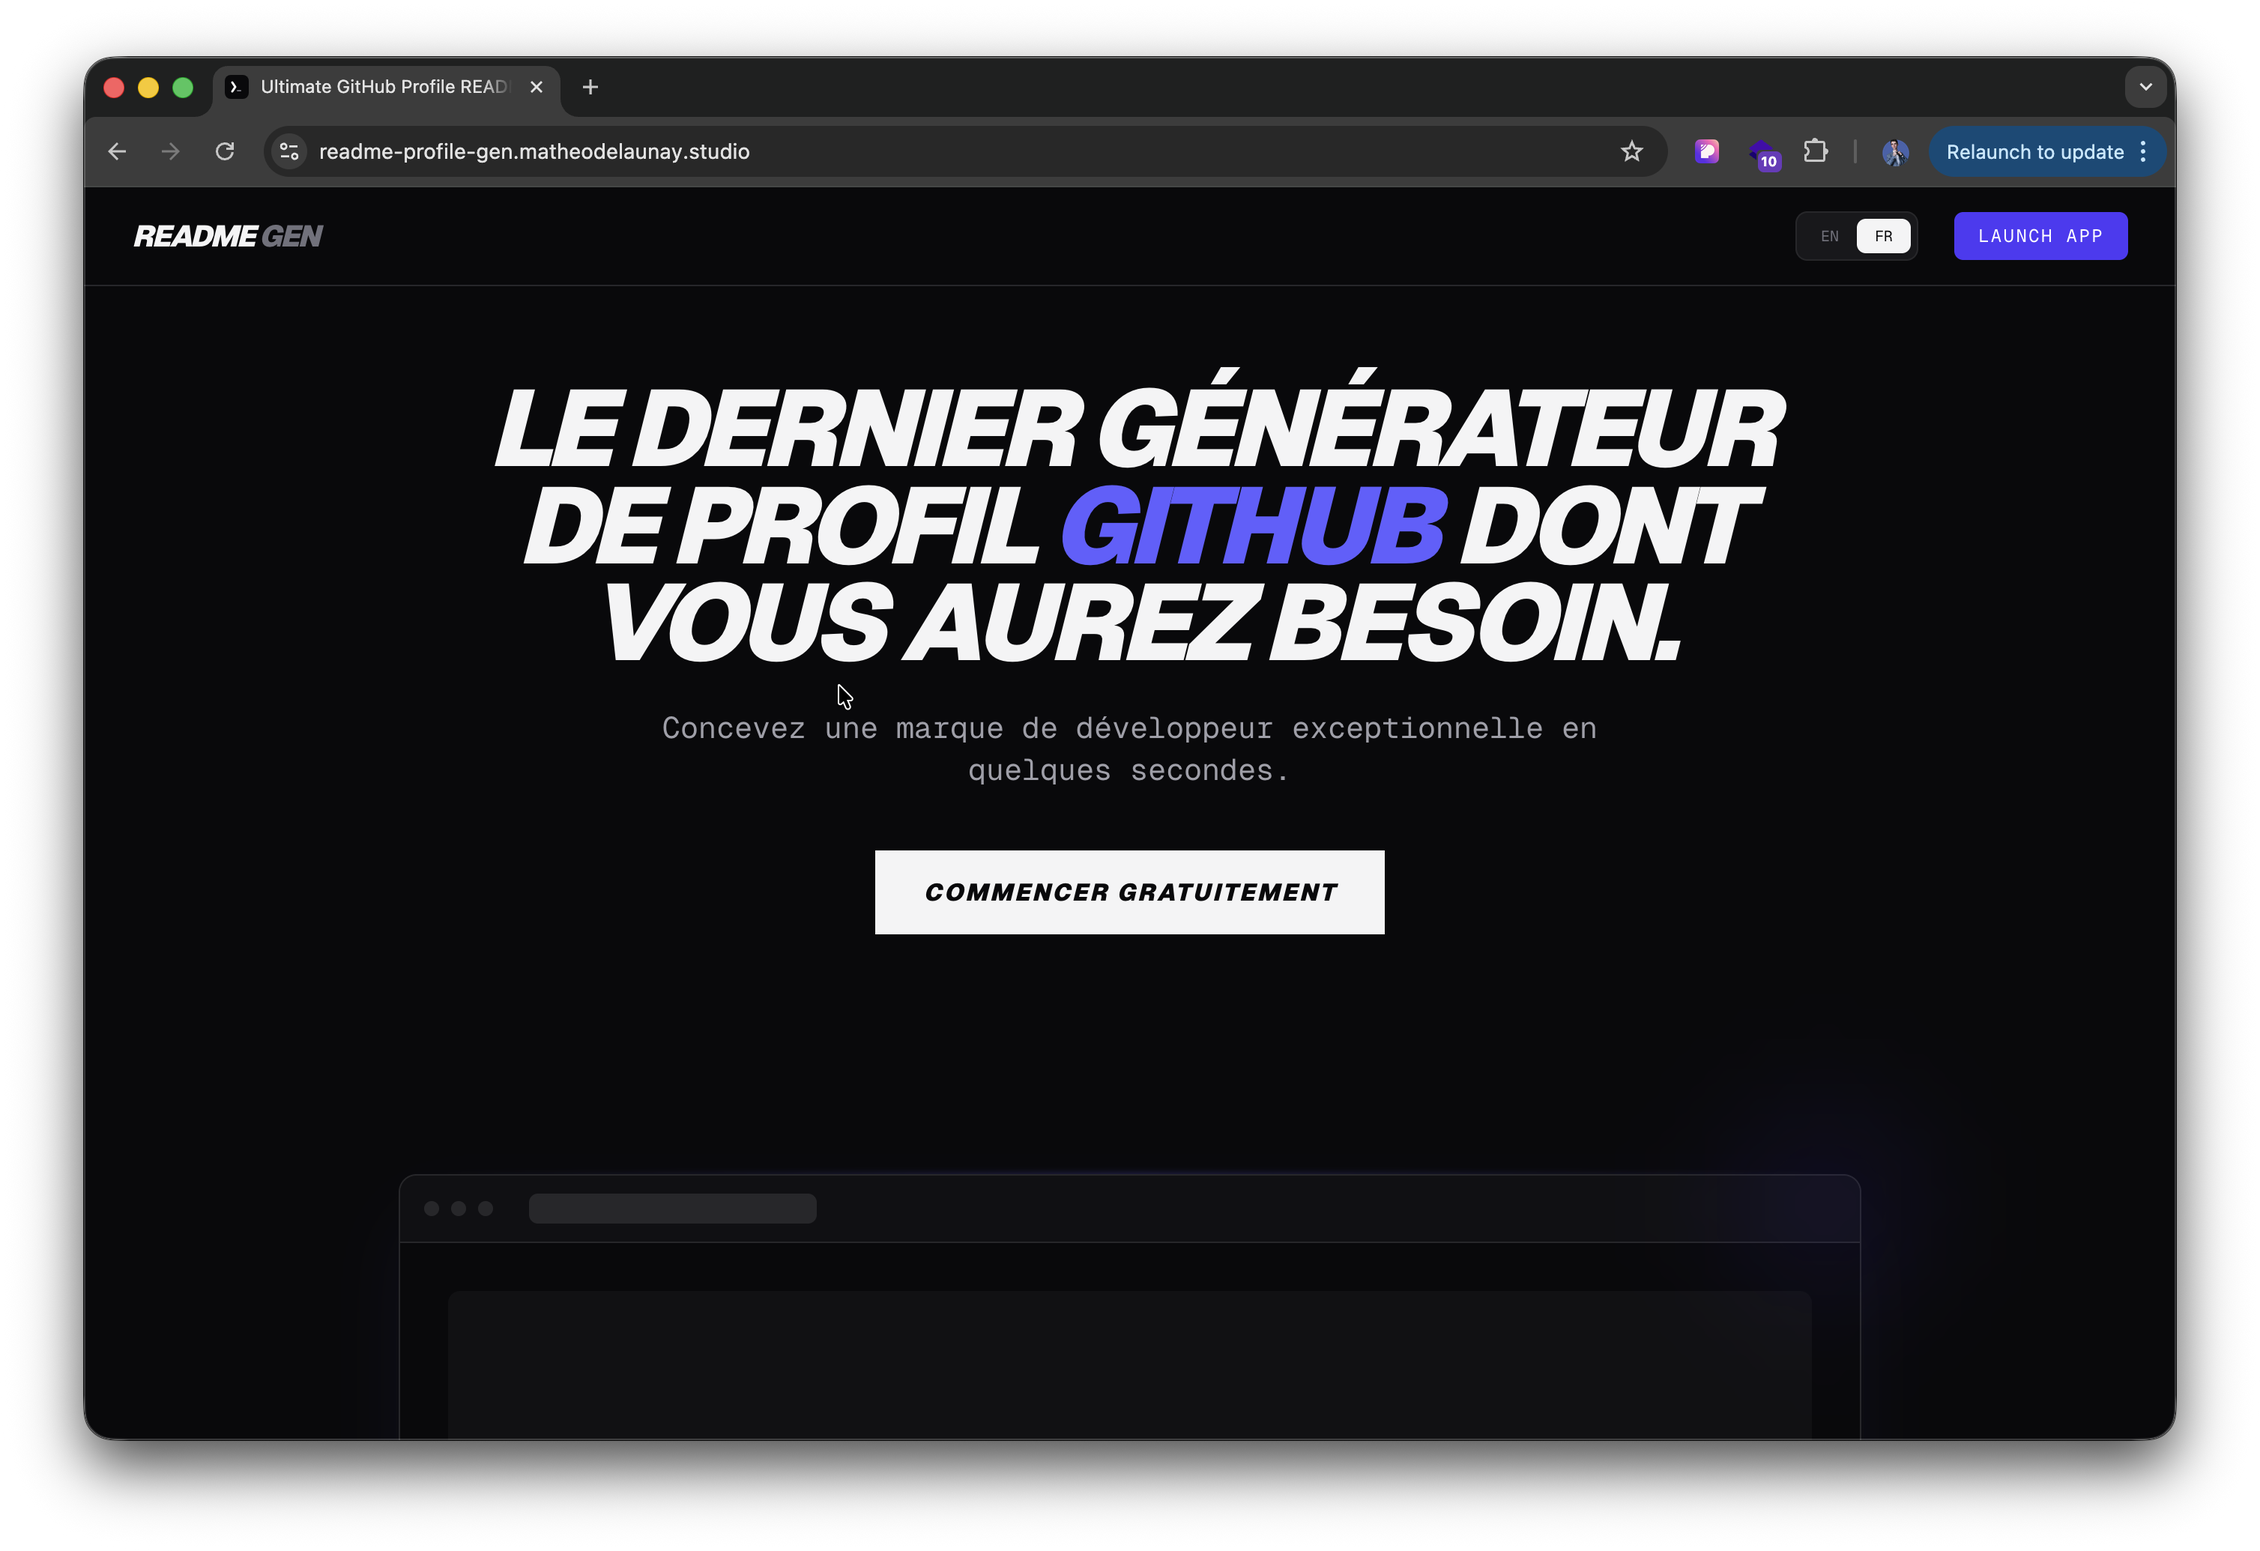
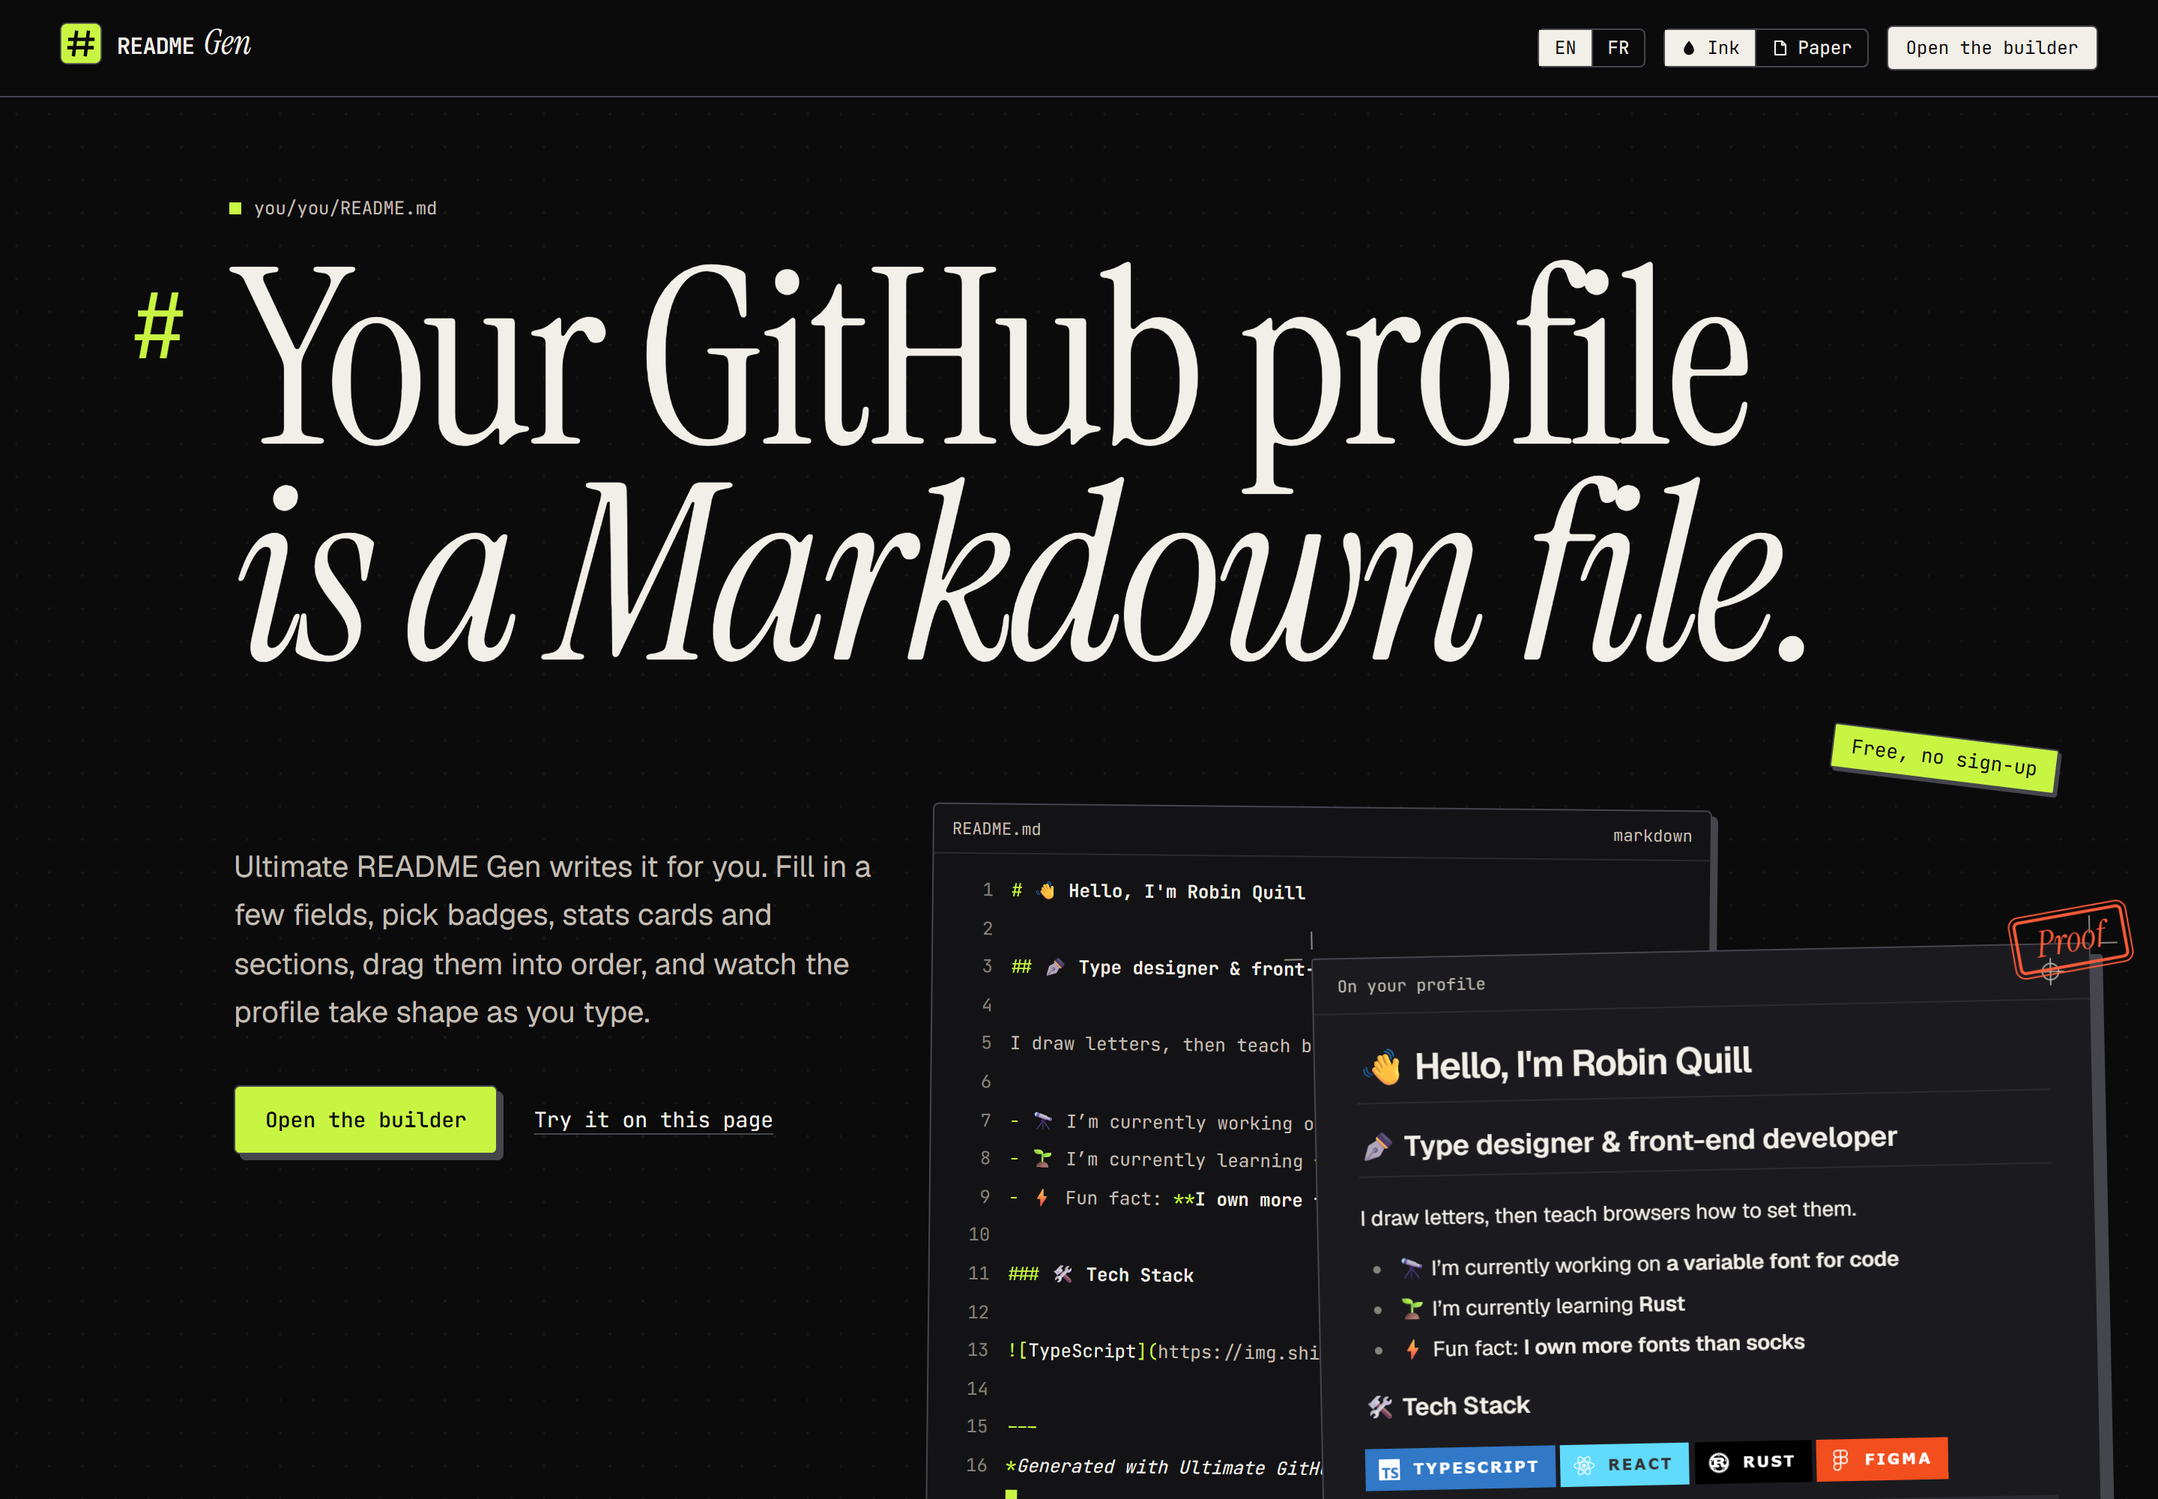
docs: rewrite the README for the Atelier identity
Describes what the builder does today (auto-fill, the thirteen sections
and free sections, design controls, persistence, JSON import/export,
shortcuts), the new landing page and the Atelier design system, with a
short, clearly marked list to complete once the parallel work is merged.

New landing screenshots in both themes; the create-next-app placeholder
SVGs in public/ were unused and are removed.

diff --git a/README.md b/README.md
@@ -1,129 +1,173 @@
-# 🚀 Ultimate GitHub Profile README Generator
-
 <div align="center">
 
-![Next.js](https://img.shields.io/badge/Next.js-000000?style=for-the-badge&logo=nextdotjs&logoColor=white)
-![TypeScript](https://img.shields.io/badge/TypeScript-3178C6?style=for-the-badge&logo=typescript&logoColor=white)
-![Tailwind CSS](https://img.shields.io/badge/Tailwind_CSS-06B6D4?style=for-the-badge&logo=tailwindcss&logoColor=white)
-![Zustand](https://img.shields.io/badge/Zustand-443E38?style=for-the-badge&logo=react&logoColor=white)
+# README Gen
 
-**Build an exceptional GitHub profile in seconds with a modern, fluid, and intelligent interface.**
+### Your GitHub profile is a Markdown file. *This writes it.*
 
-[Explore the App](#-overview) • [Key Features](#-key-features) • [Quick Start](#-quick-start) • [Contributing](#-contributing)
+**Ultimate README Gen** turns a few fields into the `README.md` that GitHub shows on your profile: badges, stats cards and sections, in the order you choose, with a live preview as you type. Free, no account, saved in your browser.
+
+[Open the builder](https://readme-profile-gen.matheodelaunay.studio/builder) · [Visit the site](https://readme-profile-gen.matheodelaunay.studio) · [Report a bug](https://github.com/D-Seonay/readme-profile-gen/issues/new)
+
+![Next.js 16](https://img.shields.io/badge/Next.js_16-0B0B0C?style=flat-square&logo=nextdotjs&logoColor=white)
+![React 19](https://img.shields.io/badge/React_19-0B0B0C?style=flat-square&logo=react&logoColor=61DAFB)
+![Tailwind CSS 4](https://img.shields.io/badge/Tailwind_CSS_4-0B0B0C?style=flat-square&logo=tailwindcss&logoColor=06B6D4)
+![TypeScript](https://img.shields.io/badge/TypeScript-0B0B0C?style=flat-square&logo=typescript&logoColor=3178C6)
+![English and French](https://img.shields.io/badge/EN_%2F_FR-C8F542?style=flat-square)
 
 </div>
 
----
-
-## ✨ Overview
-
-The **Ultimate README Gen** is more than just a form. It's a high-performance design tool for developers that leverages the GitHub API to provide a "High-Tech Stealth" user experience with real-time feedback and smart automation.
-
-### 🖼 Previews
-
-#### Landing Page
-![Landing Page](./public/readme/landingPage.png)
-
-#### Editor Interface
-![User Interface](./public/readme/userInterface.png)
+![The landing page, ink theme](./public/readme/landingPage.png)
 
 ---
 
-## 🛠 Key Features
+## Three moves
 
-### 🪄 Smart Auto-fill (Embedded Intelligence)
-Just enter your GitHub username and let the magic happen:
-- **Profile & Bio:** Automatically fetch your basic information and public links.
-- **Deep Scanning:** Textual analysis of your current README to auto-detect your Tech Stack.
-- **Email Extraction:** Smart extraction of your contact address using Regex.
+1. **Create the repository.** A public repository named exactly like your GitHub username (`you/you`) is special: its `README.md` is shown at the top of your profile.
+2. **Fill the builder.** Start with your username to pre-fill what GitHub already knows, then add sections and drag them into order.
+3. **Copy, commit, done.** Copy the Markdown or download `README.md`, commit it to that repository, and your profile updates.
 
-### ↕ Dynamic Layout & UX
-- **Drag & Drop:** Reorder your sections (Bio, Skills, Stats, Projects, etc.) with ease.
-- **Smart Layout Manager:** Only manage sections you've actually filled.
-- **Interactive Tour:** A guided onboarding for first-time users.
-- **Keyboard Shortcuts:** `CMD+S` to download, `CMD+C` to copy, `CMD+K` to search, `CMD+T` for theme.
+## What the builder does
 
-### 🎨 Total Customization
-- **Themes Gallery:** Choose from 10+ themes for your statistics cards.
-- **Global Alignment:** Switch between Classic (Left) or Modern (Centered) modes.
-- **Badge Factory:** Support for 5 different Shields.io badge styles.
-- **Dynamic Typing SVG:** Add animated text with custom fonts, colors, and speeds.
+### Auto-fill from a GitHub username
 
-### 📊 Advanced Integrations
-- **🐍 Snake Animation:** The famous contribution grid snake.
-- **🎵 Spotify Now Playing:** Show what you're listening to in real-time.
-- **📰 RSS Feed:** Automatically list your latest blog posts (Medium, Dev.to, etc.).
-- **🖼 Header Banner:** Add a strong visual impact at the top of your profile.
-- **📊 GitHub Stats & Trophies:** Comprehensive coding metrics and visual achievements.
-- **⏱ WakaTime:** Weekly coding activity graphs.
+Reads public data from the GitHub API, in the browser:
 
-### 🛡 Resilience & Reliability
-- **Service Health Check:** Real-time monitoring of third-party APIs.
-- **Local Persistence:** Your progress is always saved automatically.
-- **CI/CD:** Automated testing and linting via GitHub Actions.
+- name and bio, X/Twitter handle, website, and LinkedIn from your linked social accounts;
+- an email address found in your current profile README (or your public email);
+- the technologies already mentioned in your current profile README, matched against the 48 the builder knows;
+- your followers and the people you follow, for the network section.
 
----
+### Thirteen sections, in the order you choose
 
-## 💻 Tech Stack
+| Section | What it adds |
+| :-- | :-- |
+| Header banner | Any image URL |
+| Typing text | Animated lines ([readme-typing-svg](https://github.com/DenverCoder1/readme-typing-svg)), with size, colour, speed and pause |
+| Introduction | A greeting (`{name}` is replaced by your name), a title with an emoji prefix, a bio, the classic "currently working on / learning / collaborating on / ask me about / pronouns / fun fact" lines, and free lines of your own |
+| Tech stack | 48 technologies in eight categories, grouped or flat, plus custom badges |
+| Modern stats | [STAT-STATS](https://github-stats-cards.matheodelaunay.studio) cards: stats, top languages, streak, top repositories, activity, trophies, organisation; 8 themes, 6 fonts, compact mode, hidden stats |
+| Contact | LinkedIn, X, portfolio, email, plus custom badges |
+| GitHub stats | Stats card, streak, top languages, trophies, contribution snake, visitor counter; 10 card themes |
+| Support me | Buy Me a Coffee, Ko-fi, PayPal, plus custom badges |
+| Featured projects | Pinned repository cards |
+| WakaTime | Weekly coding activity card and badges |
+| Spotify | Now playing, from the link of a Spotify profile widget you have set up |
+| Latest blog posts | The placeholder block for the [blog-post-workflow](https://github.com/gautamkrishnar/blog-post-workflow) GitHub Action |
+| Network | Followers and following, as badges, links or an avatar grid |
 
-| Technology | Usage |
-| :--- | :--- |
-| **Next.js 16 (App Router)** | High-performance React framework |
-| **Zustand** | Global state management & persistence |
-| **Tailwind CSS** | Atomic and responsive design system |
-| **Framer Motion** | Premium "Stealth" animations |
-| **@dnd-kit** | Vertical Drag & Drop engine |
-| **Sonner** | Modern toast notifications |
-| **Vitest** | Unit testing for the generation engine |
+Add as many **free sections** as you like: Markdown or HTML, written as-is, reordered like the others. Empty sections are left out of the file.
 
----
+### Design controls
 
-## 🚀 Quick Start
+- Left or centred layout; stats cards in a row or a column.
+- Five [shields.io](https://shields.io) badge styles: `for-the-badge`, `flat`, `flat-square`, `plastic`, `social`.
+- Custom badges with any label, hex colour, [Simple Icons](https://simpleicons.org) logo and link.
+- Rename any section title, and switch off the optional "Generated with…" credit line.
 
-1. **Clone the project**
-   ```bash
-   git clone https://github.com/D-Seonay/readme-profile-gen.git
-   cd ultimate-readme-gen
-   ```
+### Working with it
 
-2. **Install dependencies**
-   ```bash
-   npm install
-   ```
+- Live preview and raw Markdown; copy to the clipboard or download `README.md`.
+- Your draft is saved in the browser (`localStorage`); export and import the whole setup as JSON.
+- Drag-and-drop section order and a short guided tour on the first visit.
+- Keyboard shortcuts in the builder: <kbd>Ctrl</kbd>/<kbd>⌘</kbd> + <kbd>S</kbd> download, <kbd>C</kbd> copy, <kbd>K</kbd> focus auto-fill, <kbd>T</kbd> theme, <kbd>L</kbd> language.
+- A status light for each third-party stats service, so you know when a card is down rather than broken.
+- Interface in English and French, in an ink (dark) or paper (light) theme.
 
-3. **Start the development server**
-   ```bash
-   npm run dev
-   ```
-   Open `http://localhost:3000` in your browser!
+> [!NOTE]
+> **To complete after the merge.** Other work in progress adds features this list does not cover yet:
+>
+> - [ ] Templates: _describe once merged_
+> - [ ] New sections: _list them once merged_
+> - [ ] Share links: _describe once merged_
+> - [ ] Undo / redo: _describe once merged, with shortcuts_
+> - [ ] Refresh `public/readme/userInterface.png` with the redesigned builder
 
----
+![The landing page, paper theme](./public/readme/landingPage-paper.png)
 
-## 📅 Roadmap Progress
+## The landing page
 
-- [x] **Phase 1:** Core engine, State Persistence, Multi-language.
-- [x] **Phase 2:** Stats, Trophies, WakaTime, Featured Projects.
-- [x] **Phase 3:** Snake, Spotify, RSS, Typing SVG, Header Banners.
-- [x] **Phase 4:** Premium Landing Page, Onboarding Tour, Shortcuts.
-- [ ] **Phase 5:** AI-powered Bio generation (OpenAI/Gemini).
-- [ ] **Phase 6:** Community Templates & Theme Sharing.
+The home page is a Server Component, so every section is in the HTML; only the parts that react to you are client components. It is set like the file it talks about, with its Markdown marks hanging in the margins:
 
----
+- **Cover**: a sample README typing itself into a proof sheet (CSS only; shown finished when reduced motion is on).
+- **§1 Compose**: six fields of the builder and its real engine, `utils/generateMarkdown.ts`, with a live proof. "Continue in the builder" carries the fields over, and asks before replacing a draft you already have.
+- **§2 Type case**: the anatomy of a custom badge, the five badge styles rendered by shields.io, and each section with the first line of Markdown it writes.
+- **§3 Proofs**: three sample profiles from the same engine, each one can be turned over to show its Markdown.
+- **§4 Press run**: the three moves above.
 
-## 🤝 Contributing
+The Open Graph image is generated at build time (`app/opengraph-image.tsx`) with fonts from `assets/og` (SIL Open Font License, licences included).
 
-Contributions are welcome! 
-1. Fork the project.
-2. Create your feature branch (`git checkout -b feature/AmazingFeature`).
-3. Commit your changes (`git commit -m 'feat: Add some AmazingFeature'`).
-4. Push the branch (`git push origin feature/AmazingFeature`).
-5. Open a Pull Request.
+## Design system: Atelier
+
+An editorial print shop crossed with a terminal: warm paper and deep ink, one electric lime accent, coral used sparingly; Instrument Serif for display, JetBrains Mono for labels and code, Geist for text; 1px rules, small radii and hard, blur-less shadows.
+
+Everything is a token in [`app/globals.css`](./app/globals.css) (`bg-canvas`, `bg-surface`, `bg-raised`, `border-line`, `border-line-strong`, `text-ink`, `text-ink-soft`, `text-muted`, `bg-accent` / `text-accent-ink`, `text-accent-text`, `bg-hot` / `text-hot-ink`, `shadow-hard`, `font-display`…). Themes switch through `<html data-theme="dark | light">`, so components never branch on the theme.
+
+## Tech stack
+
+| Technology | Used for |
+| :-- | :-- |
+| [Next.js 16](https://nextjs.org) (App Router, Turbopack) | Pages, metadata, Open Graph image, sitemap and robots |
+| React 19 | UI |
+| Tailwind CSS 4 + `@tailwindcss/typography` | The Atelier tokens and utilities |
+| Zustand 5 (`persist`) | Builder state, saved in the browser |
+| react-markdown, remark-gfm, rehype-raw | Rendering the preview the way GitHub does |
+| @dnd-kit | Drag-and-drop section order |
+| Framer Motion | The guided tour |
+| Sonner | Toasts |
+| Vitest (jsdom) | Tests for the store, the Markdown engine and the landing samples |
+
+## Getting started
+
+Requires Node.js 20.9 or later.
+
+```bash
+git clone https://github.com/D-Seonay/readme-profile-gen.git
+cd readme-profile-gen
+npm install
+npm run dev
+```
+
+Then open <http://localhost:3000>.
+
+| Script | What it does |
+| :-- | :-- |
+| `npm run dev` | Development server |
+| `npm run build` / `npm start` | Production build and server |
+| `npm run lint` | ESLint |
+| `npm test` | Vitest (add `-- --run` for a single run) |
+
+Continuous integration runs the lint, `tsc --noEmit` and the tests on every push and pull request to `main`.
+
+## Project structure
+
+```text
+app/
+  page.tsx               landing page (Server Component)
+  builder/page.tsx       the builder
+  opengraph-image.tsx    social card, generated at build time
+  api/health/route.ts    status of the third-party stats services
+  layout.tsx, globals.css, sitemap.ts, robots.ts, icon.svg
+components/              builder panels
+components/landing/      landing sections and their client islands
+store/useReadmeStore.ts  state, persistence, JSON import/export, GitHub auto-fill
+utils/generateMarkdown.ts  the engine: configuration in, README Markdown out
+lib/                     translations (en, fr), known technologies, site constants
+assets/og/               fonts for the Open Graph image
+```
+
+## Contributing
+
+Issues and pull requests are welcome.
+
+1. Fork the repository and create a branch (`git checkout -b feature/your-idea`).
+2. Make your change; keep `npm run lint`, `npx tsc --noEmit` and `npm test -- --run` green.
+3. Open a pull request against `main`.
 
 ---
 
 <div align="center">
 
-Developed with ❤ by [Seonay](https://matheodelaunay.studio)
+Made by [Seonay](https://matheodelaunay.studio)
 
 *Generated with Ultimate GitHub Profile README Generator*
 
